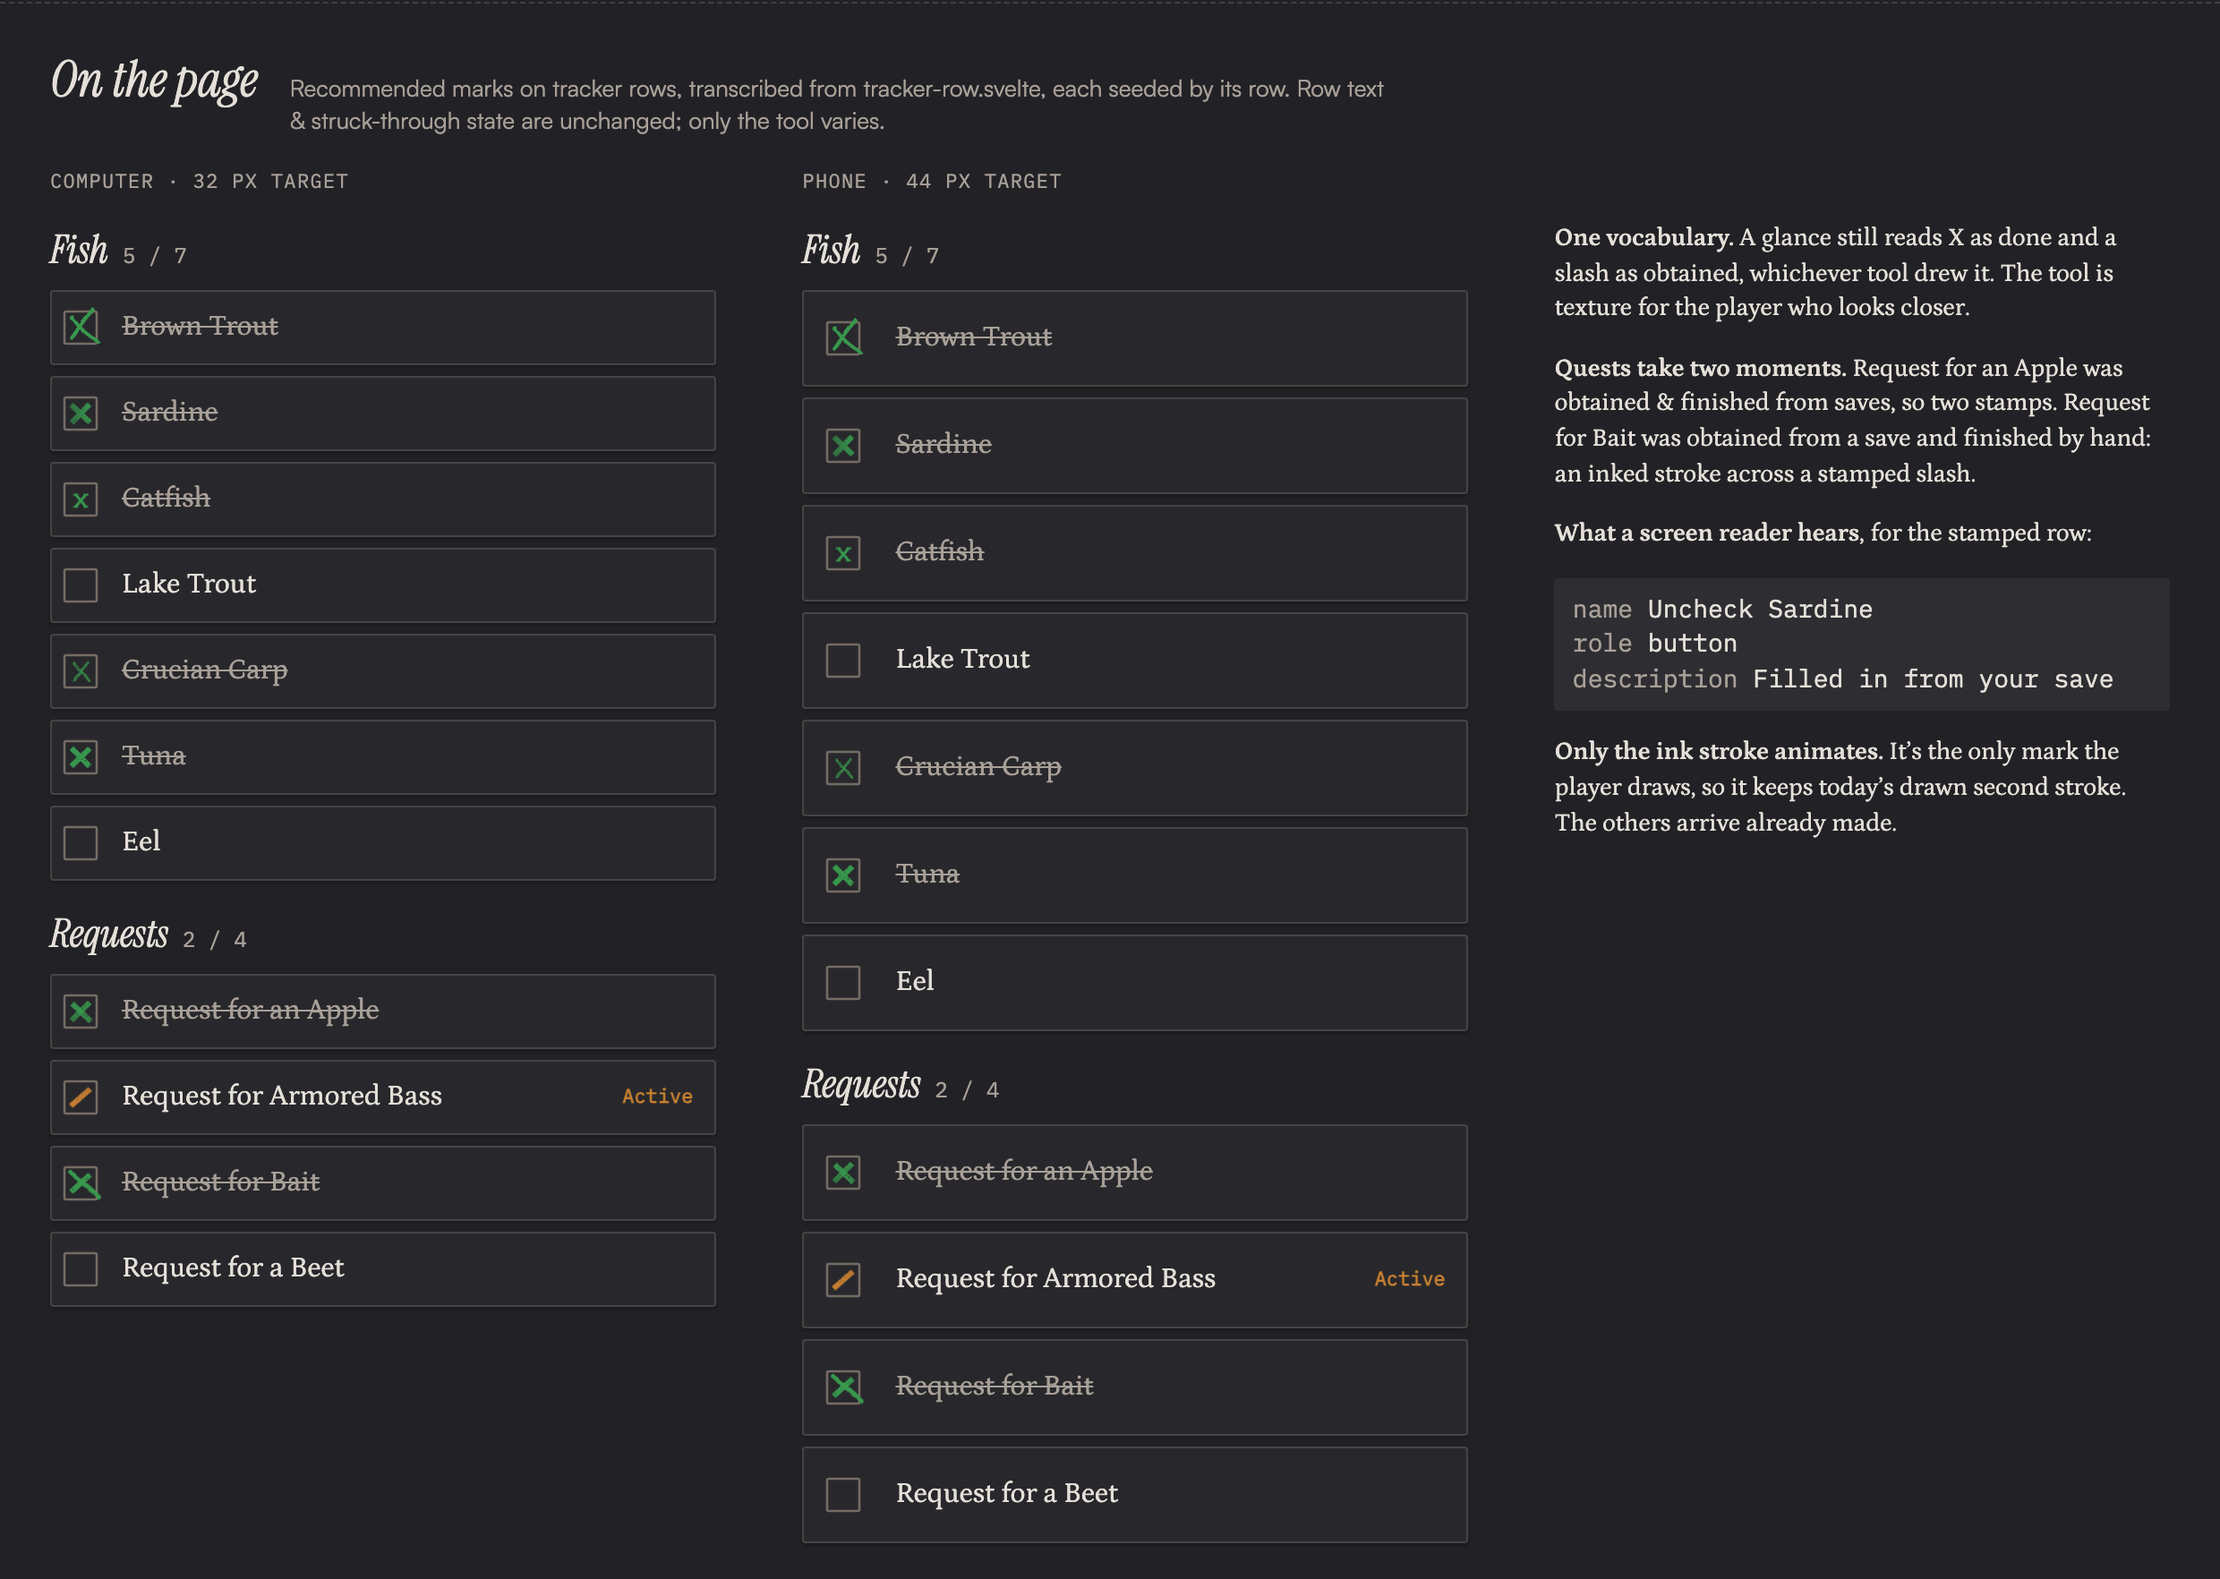
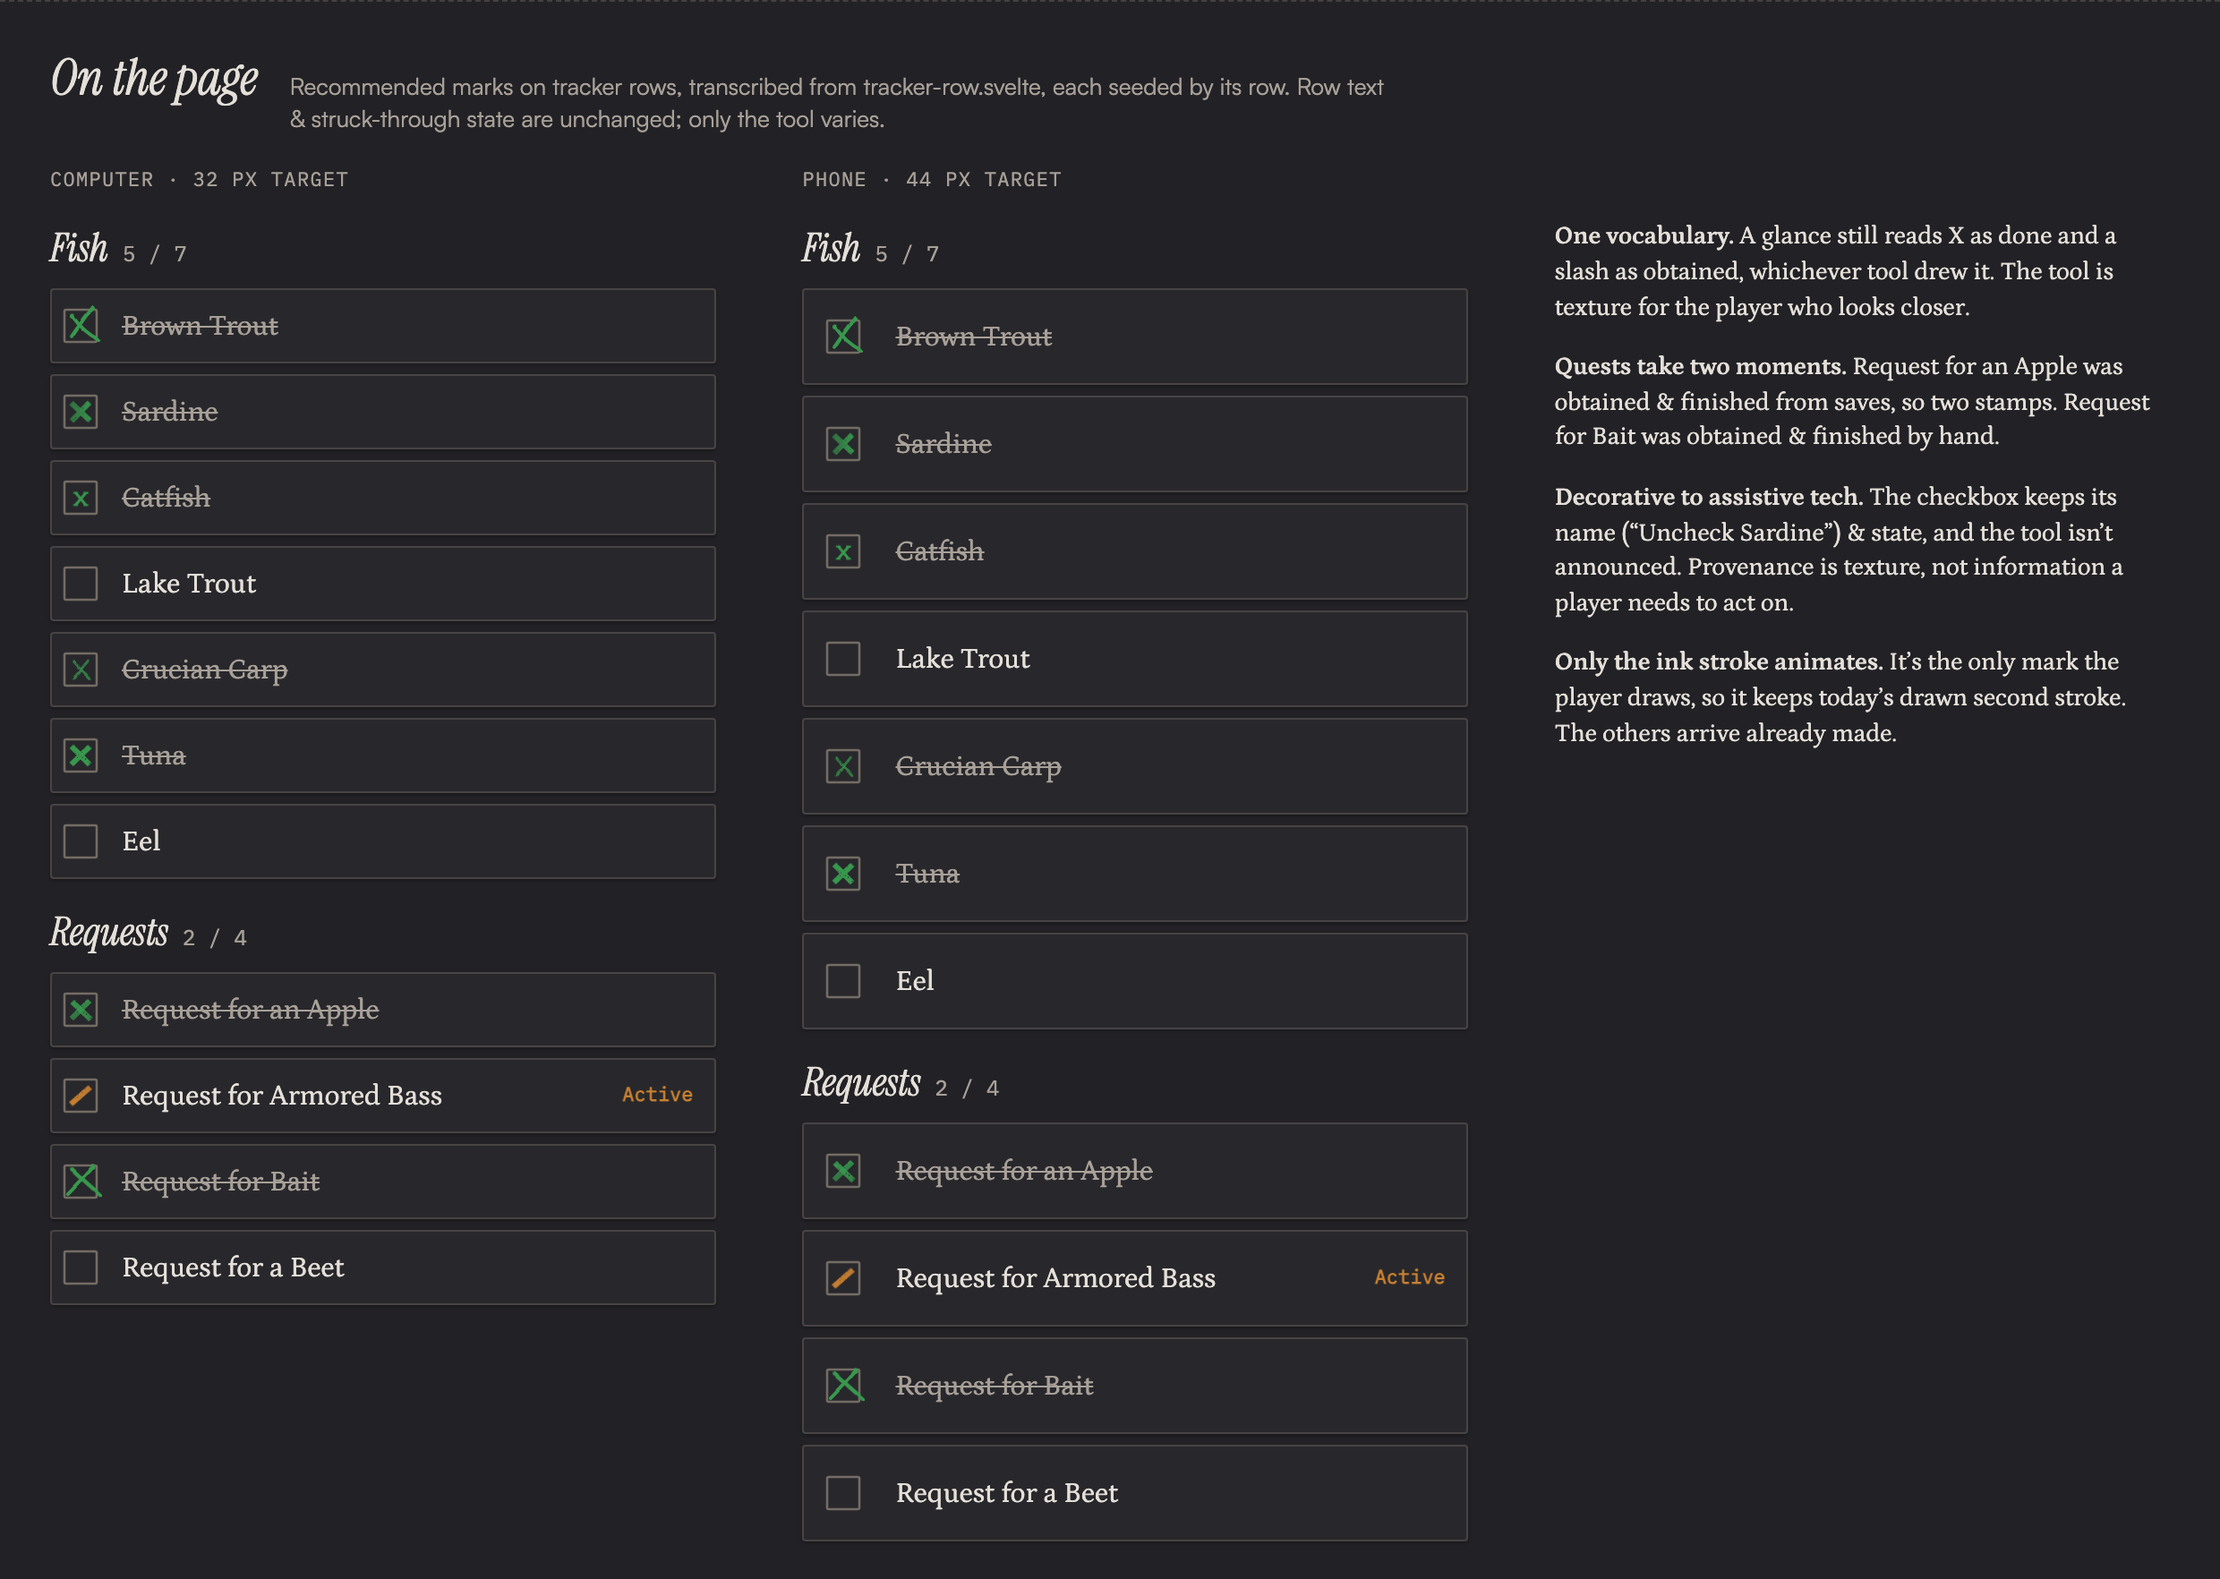
Compare quest provenance models & treat provenance as decorative
Adds a sheet comparing quests obtained & finished from different
sources: each moment keeping its tool, or the finish redrawing the
mark. Drops the screen reader descriptions & their keys, since the
maintainer considers provenance decorative.

diff --git a/docs/design/provenance-marks/marks.html b/docs/design/provenance-marks/marks.html
@@ -213,6 +213,18 @@
         color: var(--color-ink-muted);
       }
 
+      .ledger .tool-name {
+        display: block;
+        font-family: var(--font-annotation);
+        font-size: 13px;
+        color: var(--color-ink-muted);
+      }
+
+      #sheet-quests .enlarged svg {
+        width: 72px;
+        height: 72px;
+      }
+
       .ledger .words q {
         quotes: "\201C" "\201D";
       }
@@ -571,7 +583,6 @@
             <th>Real size</th>
             <th>One moment</th>
             <th>Quest: obtained, then done</th>
-            <th>Description & key</th>
           </tr>
         </thead>
         <tbody id="ledger-body"></tbody>
@@ -589,6 +600,29 @@
         </p>
       </div>
       <div class="variants" id="variants"></div>
+    </section>
+
+    <section class="sheet" id="sheet-quests">
+      <div class="sheet-head">
+        <h2>Quests from two sources</h2>
+        <p class="note">
+          A quest can be obtained from one source and finished from another. Either each moment
+          keeps its own tool (A), or the quest has one provenance and the finish redraws the whole
+          mark in its tool (B). Same-source quests look the same both ways.
+        </p>
+      </div>
+      <table class="ledger">
+        <thead>
+          <tr>
+            <th>Obtained</th>
+            <th>Finished</th>
+            <th>Active</th>
+            <th>A: each moment keeps its tool</th>
+            <th>B: the finish redraws it</th>
+          </tr>
+        </thead>
+        <tbody id="quests-body"></tbody>
+      </table>
     </section>
 
     <section class="sheet" id="sheet-context">
@@ -609,13 +643,12 @@
           </p>
           <p>
             <strong>Quests take two moments.</strong> Request for an Apple was obtained & finished
-            from saves, so two stamps. Request for Bait was obtained from a save and finished by
-            hand: an inked stroke across a stamped slash.
+            from saves, so two stamps. Request for Bait was obtained & finished by hand.
           </p>
-          <p><strong>What a screen reader hears</strong>, for the stamped row:</p>
-          <p class="sr">
-            <b>name</b> Uncheck Sardine<br /><b>role</b> button<br /><b>description</b> Filled in
-            from your save
+          <p>
+            <strong>Decorative to assistive tech.</strong> The checkbox keeps its name (“Uncheck
+            Sardine”) & state, and the tool isn’t announced. Provenance is texture, not information
+            a player needs to act on.
           </p>
           <p>
             <strong>Only the ink stroke animates.</strong> It’s the only mark the player draws, so
@@ -762,6 +795,7 @@
         const slash = (c) => print(c, bar(-45), first, firstPress);
         return {
           slash,
+          cross: (c) => print(c, bar(45), `${first} ${later}`, laterPress),
           x: (c) => print(c, bar(-45) + bar(45), first, firstPress),
           quest: (c) => slash(c) + print(c, bar(45), `${first} ${later}`, laterPress),
         };
@@ -789,7 +823,12 @@
             "M9.6 8.2 C12.8 11.6 16.1 15.4 19.5 19.1",
             at,
           );
-        return { slash, x: (c) => slash(c) + cross(c), quest: (c) => slash(c) + cross(c, later) };
+        return {
+          slash,
+          cross: (c) => cross(c, later),
+          x: (c) => slash(c) + cross(c),
+          quest: (c) => slash(c) + cross(c, later),
+        };
       };
 
       // Typewriter: a small serifed x, struck a hair off level in one keystroke. A quest types /
@@ -805,6 +844,7 @@
         const slash = (c) => key(c, SLASH, first);
         return {
           slash,
+          cross: (c) => key(c, BACK, `${first} ${later}`),
           x: (c) => key(c, SLASH + BACK, first),
           quest: (c) => slash(c) + key(c, BACK, `${first} ${later}`),
         };
@@ -826,25 +866,21 @@
           source: "manual",
           tool: "Pen",
           why: "The player’s own hand. Today’s X, loosened: a nib’s landing blot, strokes that overrun the box.",
-          words: "You checked this off by hand",
         },
         {
           source: "save",
           tool: "Rubber stamp",
           why: "A clerk’s stamp, set a few degrees off, with specks the ink missed and a fade where it was pressed lightly.",
-          words: "Filled in from your save",
         },
         {
           source: "inferred",
           tool: "Pencil",
           why: "Green colored pencil: lighter & grainier than the pen, so it reads as our note, and it stays inside the box.",
-          words: "We filled this in for you",
         },
         {
           source: "unknown",
           tool: "Typewriter",
           why: "A typed x, as on old forms: small, serifed, struck a hair off level.",
-          words: "From your older records",
         },
       ];
       const TOOL_OF = { manual: pen, save: stamp, inferred: pencil, unknown: typewriter };
@@ -857,7 +893,6 @@
           <td>${atRow(f)}</td>
           <td><span class="enlarged">${f.x}</span></td>
           <td><span class="pair"><span class="enlarged">${f.slash}</span><span class="arrow">→</span><span class="enlarged">${f.quest}</span></span></td>
-          <td class="words"><q>${rec.words}</q><br /><code>tracker_row_provenance_${rec.source}</code></td>
         </tr>`;
       }).join("");
 
@@ -896,6 +931,29 @@
             })
             .join("")}</div>`;
 
+      const QUESTS = [
+        ["save", "manual", "Request for Bait"],
+        ["manual", "save", "Request for a Pearl"],
+        ["unknown", "manual", "Request for Tea"],
+        ["manual", "inferred", "Request for Wool"],
+        ["save", "save", "Request for an Apple"],
+      ];
+      const shown = (mark) =>
+        `<span class="pair"><span class="enlarged">${mark}</span><span class="at-size">${mark}</span></span>`;
+      document.querySelector("#quests-body").innerHTML = QUESTS.map(([got, finished, name]) => {
+        const r = random(name);
+        const before = TOOL_OF[got](r);
+        const after = got === finished ? before : TOOL_OF[finished](r);
+        const tool = (source) => RECOMMENDED.find((rec) => rec.source === source).tool;
+        return `<tr>
+          <td class="source">${got}<small class="tool-name">${tool(got)}</small></td>
+          <td class="source">${finished}<small class="tool-name">${tool(finished)}</small></td>
+          <td>${shown(svg(before.slash(AMBER)))}</td>
+          <td>${shown(svg(before.slash(GREEN) + after.cross(GREEN)))}</td>
+          <td>${shown(svg(after.quest(GREEN)))}</td>
+        </tr>`;
+      }).join("");
+
       const row = (name, mark, extra = "", completed = true) =>
         `<div class="row${completed ? " completed" : ""}"><div class="surface">
           <span class="box">${mark}</span>
@@ -904,9 +962,6 @@
       const done = (tool, name) => svg(tool(random(name)).x(GREEN));
 
       const column = (title) => {
-        const bait = random("Request for Bait");
-        const baitSlash = stamp(bait).slash(GREEN);
-        const baitCross = pen(bait).cross(GREEN);
         return `<div class="column-title">${title}</div>
         <div class="section-name">Fish <span class="count">5 / 7</span></div>
         <div class="stack">
@@ -922,7 +977,7 @@
         <div class="stack">
           ${row("Request for an Apple", svg(stamp(random("Request for an Apple")).quest(GREEN)))}
           ${row("Request for Armored Bass", svg(stamp(random("Request for Armored Bass")).slash(AMBER)), '<span class="badge">Active</span>', false)}
-          ${row("Request for Bait", svg(baitSlash + baitCross))}
+          ${row("Request for Bait", svg(pen(random("Request for Bait")).quest(GREEN)))}
           ${row("Request for a Beet", EMPTY, "", false)}
         </div>`;
       };

diff --git a/docs/design/provenance-marks/README.md b/docs/design/provenance-marks/README.md
@@ -12,7 +12,7 @@ Status: proposed, awaiting the maintainer’s approval on the PR that adds this 
 
 | Path                  | What it is                                                                 |
 | --------------------- | -------------------------------------------------------------------------- |
-| `marks.html`          | The mockup: key, variants, & tracker rows. Add `?theme=dark` for dark mode |
+| `marks.html`          | The mockup: key, variants, quests, & rows. Add `?theme=dark` for dark mode |
 | `sheets/`             | One PNG per section & theme, rendered from `marks.html` at 2×              |
 | `generator/shots.mjs` | Renders the sheets with the workspace Playwright                           |
 
@@ -22,12 +22,12 @@ component as they are. Lint & Knip skip `docs/design/*/generator/`.
 
 ## Recommended marks
 
-| Source     | Tool         | How it draws the X                                                         | Description (`en`)             | Key                               |
-| ---------- | ------------ | -------------------------------------------------------------------------- | ------------------------------ | --------------------------------- |
-| `manual`   | Pen          | Today’s X, loosened, with nib blots; overruns the box                      | “You checked this off by hand” | `tracker_row_provenance_manual`   |
-| `save`     | Rubber stamp | Square-ended filled bars, a few degrees off, with specks & a pressure fade | “Filled in from your save”     | `tracker_row_provenance_save`     |
-| `inferred` | Pencil       | Green colored pencil at 75% of the pen’s strength, grainy                  | “We filled this in for you”    | `tracker_row_provenance_inferred` |
-| `unknown`  | Typewriter   | A small serifed x, struck a hair off level                                 | “From your older records”      | `tracker_row_provenance_unknown`  |
+| Source     | Tool         | How it draws the X                                                         |
+| ---------- | ------------ | -------------------------------------------------------------------------- |
+| `manual`   | Pen          | Today’s X, loosened, with nib blots; overruns the box                      |
+| `save`     | Rubber stamp | Square-ended filled bars, a few degrees off, with specks & a pressure fade |
+| `inferred` | Pencil       | Green colored pencil at 75% of the pen’s strength, grainy                  |
+| `unknown`  | Typewriter   | A small serifed x, struck a hair off level                                 |
 
 Every X uses `--color-tracker-checked` and every slash `--color-tracker-obtained`, so no new color
 roles are needed. Only the inked X keeps the drawn-stroke animation, since it’s the only mark the
@@ -61,10 +61,15 @@ unchanged.
 
 ## Accessibility
 
-The checkbox keeps its accessible name (“Uncheck {name}”) & its state. A checked box adds
-`aria-describedby` pointing at visually hidden text holding its provenance’s description. Unchecked
-boxes get no description. The marks share one shape on purpose, so provenance is never conveyed by
-the mark alone; the description carries it.
+Provenance is decorative. The checkbox keeps its accessible name (“Uncheck {name}”) & its state, and
+the tool isn’t announced, so no description strings or keys are needed. The marks share one shape,
+so the status a player acts on never depends on the tool.
+
+## Quests from two sources
+
+A quest can be obtained from one source and finished from another. The quests sheet compares two
+models: each moment keeps its own tool (A), or the quest has one provenance and the finish redraws
+the whole mark in its tool (B). The choice is open.
 
 ## Regenerating
 
@@ -76,8 +81,9 @@ node docs/design/provenance-marks/generator/shots.mjs
 
 ## Sheets
 
-| Sheet                                                                                      | Section                            |
-| ------------------------------------------------------------------------------------------ | ---------------------------------- |
-| [01-key-light.png](sheets/01-key-light.png), [dark](sheets/01-key-dark.png)                | The recommended set                |
-| [02-variants-light.png](sheets/02-variants-light.png), [dark](sheets/02-variants-dark.png) | Variants, with the picks           |
-| [03-context-light.png](sheets/03-context-light.png), [dark](sheets/03-context-dark.png)    | On tracker rows, both target sizes |
+| Sheet                                                                                      | Section                             |
+| ------------------------------------------------------------------------------------------ | ----------------------------------- |
+| [01-key-light.png](sheets/01-key-light.png), [dark](sheets/01-key-dark.png)                | The recommended set                 |
+| [02-variants-light.png](sheets/02-variants-light.png), [dark](sheets/02-variants-dark.png) | Per-entry variation & pencil weight |
+| [03-context-light.png](sheets/03-context-light.png), [dark](sheets/03-context-dark.png)    | On tracker rows, both target sizes  |
+| [04-quests-light.png](sheets/04-quests-light.png), [dark](sheets/04-quests-dark.png)       | Quests from two sources, A & B      |
